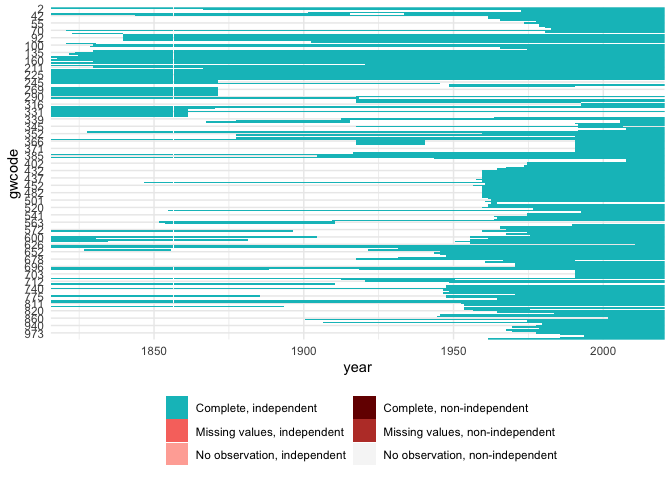
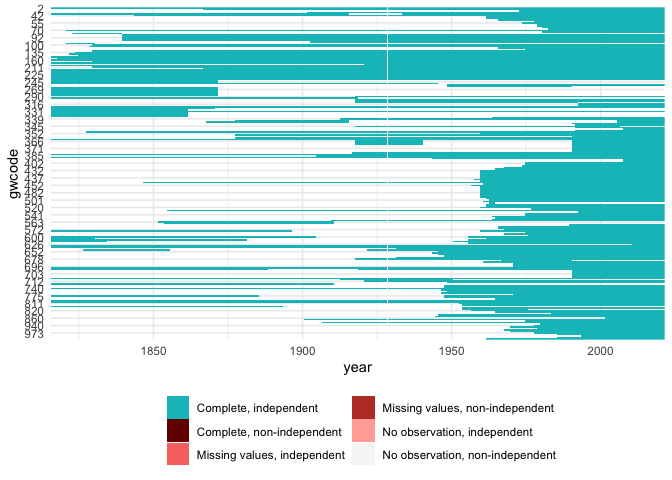
update state age

diff --git a/gwstate-age/README.md b/gwstate-age/README.md
@@ -1,6 +1,8 @@
 GW state age
 ================
 
+*Last updated on 2022-02-19*
+
 State age, i.e. time since independence or 1816.
 
 ``` r
@@ -21,7 +23,7 @@ head(gwstates)
 str(gwstates)
 ```
 
-    ## 'data.frame':    19864 obs. of  3 variables:
+    ## 'data.frame':    20061 obs. of  3 variables:
     ##  $ gwcode   : int  2 2 2 2 2 2 2 2 2 2 ...
     ##  $ year     : int  1816 1817 1818 1819 1820 1821 1822 1823 1824 1825 ...
     ##  $ state_age: int  1 2 3 4 5 6 7 8 9 10 ...
@@ -30,4 +32,4 @@ str(gwstates)
 range(gwstates$year)
 ```
 
-    ## [1] 1816 2020
+    ## [1] 1816 2021

diff --git a/gwstate-age/coding-notes.md b/gwstate-age/coding-notes.md
@@ -1,9 +1,9 @@
-G\&W states
+G&W states
 ================
 
-*Last updated on: 2021-03-02*
+*Last updated on: 2022-02-19*
 
-G\&W states list, and derived indicators like state age.
+G&W states list, and derived indicators like state age.
 
 ``` r
 library(states)
@@ -42,7 +42,7 @@ to_year <- year(Sys.Date()) - 1
 to_year
 ```
 
-    ## [1] 2020
+    ## [1] 2021
 
 ``` r
 out <- state_panel(lubridate::year(min(gwstates$start)), to_year, 
